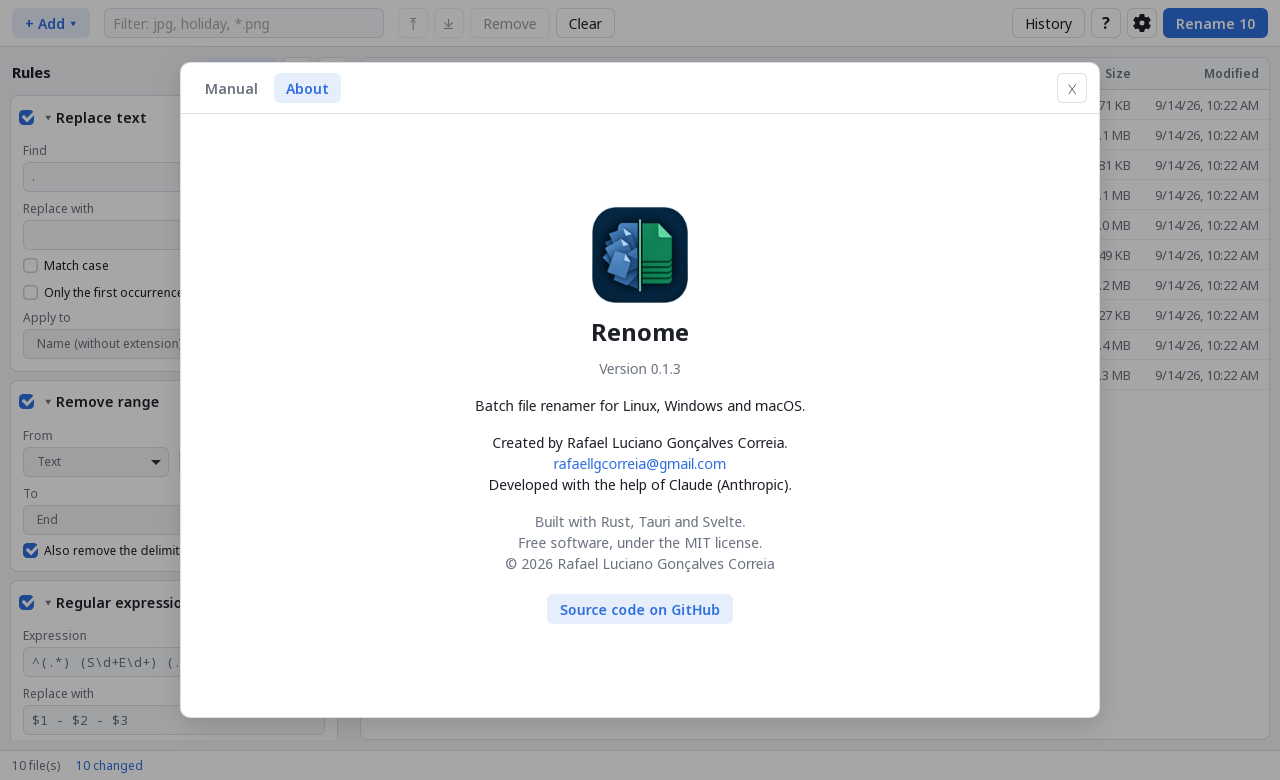
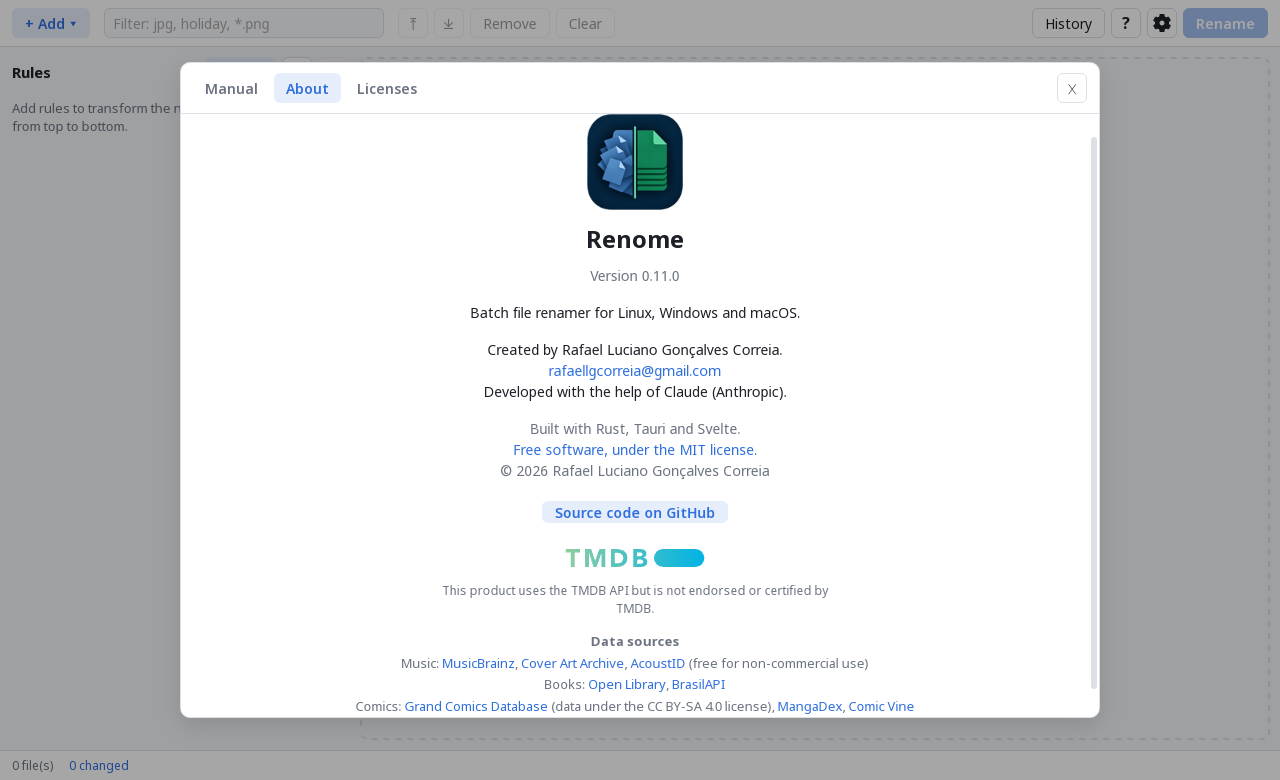
New screenshots; the Folder column shows where a file goes
- README screenshots redone with made-up names: text rules, movie review
  (posters), music into artist/album folders, comics (dark theme),
  photos, manual and About.
- The Folder column shows, in blue, the folder a file moves into; it is
  a bit wider.
- The UI takes TMDB images from RENOME_TMDB_IMAGES too (tests).
- Manual: the destination column; case-insensitive disks on Linux.

diff --git a/src/lib/help/es.ts b/src/lib/help/es.ts
@@ -508,6 +508,7 @@ ${ex("Nombre_de_la_Serie_012_(2019)_(Digital)_(grupo).cbz", "Nombre de la Serie 
   <li>en <b>Nombre actual</b>, lo que se va aparece <span class="del">en rojo, tachado</span>;</li>
   <li>en <b>Nuevo nombre</b>, lo que entra aparece <span class="ins">en azul</span>;</li>
   <li>lo que solo cambió de lugar (el autor que pasó delante del título, por ejemplo) aparece <span class="mov">subrayado con puntos</span>, en los dos lados.</li>
+  <li>un archivo que cambia de carpeta recibe un icono de carpeta en el nombre nuevo, y la columna <b>Carpeta</b> muestra, en azul, adónde va (<code>→ Artista/Álbum (2019)</code>).</li>
 </ul>
 <p>En la primera columna, ● indica que el archivo se renombrará, un <span class="bad">!</span> rojo es un conflicto y un <span class="warn">!</span> amarillo es un aviso. Pase el ratón para ver el motivo.</p>
 <h4>Editar a mano</h4>
@@ -521,7 +522,7 @@ ${ex("Nombre_de_la_Serie_012_(2019)_(Digital)_(grupo).cbz", "Nombre de la Serie 
   <li>ya existe un archivo con ese nombre fuera de la lista (nada se sobrescribe);</li>
   <li>en Windows: los caracteres <code>\\ : * ? " &lt; &gt; |</code>, o un punto o espacio al final del nombre.</li>
 </ul>
-<p>En otros sistemas, esos caracteres de Windows solo generan un aviso amarillo, que se puede desactivar en Opciones. En Windows y macOS, los nombres que solo difieren en mayúsculas cuentan como iguales.</p>
+<p>En otros sistemas, esos caracteres de Windows solo generan un aviso amarillo, que se puede desactivar en Opciones. En Windows, macOS y los discos que no distinguen mayúsculas (exFAT, FAT, NTFS, como los pendrives), los nombres que solo difieren en mayúsculas cuentan como iguales.</p>
 <p><b>Exportar lista</b>, en el pie, guarda la lista tal como se ve (carpeta, nombre actual, nombre nuevo, carpeta a la que va, estado y problema) en un archivo CSV, que se abre en cualquier hoja de cálculo. Sirve para revisar con calma un lote grande antes de renombrar.</p>
 `,
   },

diff --git a/src/lib/help/pt.ts b/src/lib/help/pt.ts
@@ -508,6 +508,7 @@ ${ex("Nome_da_Serie_012_(2019)_(Digital)_(grupo).cbz", "Nome da Série #012 (201
   <li>no <b>Nome atual</b>, o que vai sair aparece <span class="del">em vermelho, riscado</span>;</li>
   <li>no <b>Novo nome</b>, o que entra aparece <span class="ins">em azul</span>;</li>
   <li>o que só mudou de lugar (o autor que passou para a frente do título, por exemplo) aparece <span class="mov">sublinhado com pontinhos</span>, nos dois lados.</li>
+  <li>um arquivo que vai mudar de pasta ganha um ícone de pasta no novo nome, e a coluna <b>Pasta</b> mostra, em azul, para onde ele vai (<code>→ Artista/Álbum (2019)</code>).</li>
 </ul>
 <p>Na primeira coluna, ● indica que o arquivo será renomeado, <span class="bad">!</span> vermelho indica um conflito e <span class="warn">!</span> amarelo indica um aviso. Passe o mouse para ver o motivo.</p>
 <h4>Editar à mão</h4>
@@ -521,7 +522,7 @@ ${ex("Nome_da_Serie_012_(2019)_(Digital)_(grupo).cbz", "Nome da Série #012 (201
   <li>já existe um arquivo com esse nome fora da lista (nada é sobrescrito);</li>
   <li>no Windows: os caracteres <code>\\ : * ? " &lt; &gt; |</code>, ou ponto ou espaço no fim do nome.</li>
 </ul>
-<p>Em outros sistemas, esses caracteres do Windows só geram um aviso amarelo, desligável nas Opções. No Windows e no macOS, nomes que só diferem em maiúsculas contam como iguais.</p>
+<p>Em outros sistemas, esses caracteres do Windows só geram um aviso amarelo, desligável nas Opções. No Windows, no macOS e em discos que não diferenciam maiúsculas (exFAT, FAT, NTFS, como pendrives), nomes que só diferem em maiúsculas contam como iguais.</p>
 <p><b>Exportar lista</b>, no rodapé, salva a lista como está na tela (pasta, nome atual, novo nome, pasta para onde vai, situação e problema) num arquivo CSV, que abre em qualquer planilha. Serve para conferir com calma um lote grande antes de renomear.</p>
 `,
   },

diff --git a/src/lib/help/en.ts b/src/lib/help/en.ts
@@ -508,6 +508,7 @@ ${ex("Series_Name_012_(2019)_(Digital)_(group).cbz", "Series Name #012 (2019).cb
   <li>in <b>Current name</b>, what goes away is shown <span class="del">in red, struck through</span>;</li>
   <li>in <b>New name</b>, what comes in is shown <span class="ins">in blue</span>;</li>
   <li>what only moved (the author now before the title, for instance) is shown <span class="mov">with a dotted underline</span>, on both sides.</li>
+  <li>a file that moves to another folder gets a folder icon in its new name, and the <b>Folder</b> column shows, in blue, where it goes (<code>→ Artist/Album (2019)</code>).</li>
 </ul>
 <p>In the first column, ● means the file will be renamed, a red <span class="bad">!</span> is a conflict and a yellow <span class="warn">!</span> is a warning. Hover to see why.</p>
 <h4>Editing by hand</h4>
@@ -521,7 +522,7 @@ ${ex("Series_Name_012_(2019)_(Digital)_(group).cbz", "Series Name #012 (2019).cb
   <li>a file with that name already exists outside the list (nothing is overwritten);</li>
   <li>on Windows: the characters <code>\\ : * ? " &lt; &gt; |</code>, or a dot or space at the end of the name.</li>
 </ul>
-<p>On other systems, those Windows characters only cause a yellow warning, which can be turned off in Options. On Windows and macOS, names that differ only in case count as the same.</p>
+<p>On other systems, those Windows characters only cause a yellow warning, which can be turned off in Options. On Windows, macOS and disks that ignore case (exFAT, FAT, NTFS, as on USB sticks), names that differ only in case count as the same.</p>
 <p><b>Export list</b>, in the footer, saves the list as shown (folder, current name, new name, folder it moves into, status and problem) to a CSV file, which opens in any spreadsheet. It helps check a large batch calmly before renaming.</p>
 `,
   },

diff --git a/src/lib/FileTable.svelte b/src/lib/FileTable.svelte
@@ -255,7 +255,12 @@
               {/if}
             {/if}
           </span>
-          <span class="c-dir" title={item.dir}>{dir(item.dir)}</span>
+          <!-- Moving: where to, without hovering over the folder icon. -->
+          {#if item.folder}
+            <span class="c-dir into-dir" title={t("intoFolder", { folder: item.folder })}>{`→ ${item.folder}`}</span>
+          {:else}
+            <span class="c-dir" title={item.dir}>{dir(item.dir)}</span>
+          {/if}
           <span class="c-size">{item.isDir ? "" : size(item.size)}</span>
           <span class="c-date">{date(item.modified)}</span>
         </div>
@@ -279,7 +284,7 @@
   }
   .head, .row {
     display: grid;
-    grid-template-columns: 28px minmax(140px, 1fr) minmax(160px, 1.2fr) minmax(90px, 0.6fr) 76px 120px;
+    grid-template-columns: 28px minmax(140px, 1fr) minmax(160px, 1.2fr) minmax(90px, 0.8fr) 76px 120px;
     align-items: center;
     gap: 8px;
     padding: 0 10px;
@@ -328,6 +333,8 @@
   .row span { overflow: hidden; text-overflow: ellipsis; white-space: nowrap; }
   .c-size, .c-date { text-align: right; color: var(--muted); font-variant-numeric: tabular-nums; }
   .row .c-dir { color: var(--muted); direction: rtl; text-align: left; }
+  /* Where it goes reads from its start (the artist, the show). */
+  .row .c-dir.into-dir { color: var(--accent); direction: ltr; }
   .c-new { display: flex; align-items: center; gap: 4px; }
   .name { overflow: hidden; text-overflow: ellipsis; }
   .row.conflict .name { color: var(--danger); }

diff --git a/src/lib/api.ts b/src/lib/api.ts
@@ -36,6 +36,8 @@ export const api = {
     invoke<{ matches: [string, SongMatch][]; agree: number }>("mb_choose", { id, paths, fromName }),
   /** `names`: the name each file is read by (null: its own). */
   saveText: (path: string, text: string) => invoke<void>("save_text", { path, text }),
+  /** Where TMDB images come from (`…/t/p`, sizes added). */
+  tmdbImages: () => invoke<string>("tmdb_images"),
   comicGuesses: (paths: string[], names: (string | null)[], byFolder: boolean) =>
     invoke<(ComicMatch | null)[]>("comic_guesses", { paths, names, byFolder }),
   comicCheck: (key: string) => invoke<void>("comic_check", { key }),

diff --git a/src/lib/EpisodeReview.svelte b/src/lib/EpisodeReview.svelte
@@ -1,4 +1,5 @@
 <script lang="ts">
+  import { tmdbImage } from "./tmdbImages.svelte";
   import { t } from "./i18n";
   import type { EpKey, Episode, EpisodeState, Show } from "./types";
 
@@ -111,7 +112,7 @@
     if (n >= 1 && n <= Math.min(9, alts.length)) choose(alts[n - 1]);
   }
 
-  const still = (p: string | null) => (p ? `https://image.tmdb.org/t/p/w300${p}` : null);
+  const still = (p: string | null) => tmdbImage("w300", p);
   const date = (d: string | null) => (d ? new Date(`${d}T12:00`).toLocaleDateString() : "");
 </script>
 

diff --git a/src/lib/ShowPicker.svelte b/src/lib/ShowPicker.svelte
@@ -1,4 +1,5 @@
 <script lang="ts">
+  import { tmdbImage } from "./tmdbImages.svelte";
   import { api } from "./api";
   import { t, tError } from "./i18n";
   import { settings, tmdbLang } from "./settings.svelte";
@@ -43,7 +44,7 @@
     if (n >= 1 && n <= Math.min(9, candidates.length)) onpick(candidates[n - 1]);
   }
 
-  const poster = (p: string | null) => (p ? `https://image.tmdb.org/t/p/w185${p}` : null);
+  const poster = (p: string | null) => tmdbImage("w185", p);
 </script>
 
 <svelte:window {onkeydown} />

diff --git a/src/lib/MovieReview.svelte b/src/lib/MovieReview.svelte
@@ -1,4 +1,5 @@
 <script lang="ts">
+  import { tmdbImage } from "./tmdbImages.svelte";
   import { api } from "./api";
   import { t, tError } from "./i18n";
   import { settings, tmdbLang } from "./settings.svelte";
@@ -79,7 +80,7 @@
     if (n >= 1 && n <= candidates.length) choose(candidates[n - 1]);
   }
 
-  const poster = (p: string | null) => (p ? `https://image.tmdb.org/t/p/w185${p}` : null);
+  const poster = (p: string | null) => tmdbImage("w185", p);
 </script>
 
 <svelte:window {onkeydown} />

diff --git a/src/lib/tmdbImages.svelte.ts b/src/lib/tmdbImages.svelte.ts
@@ -1,0 +1,10 @@
+import { api } from "./api";
+
+/** Where TMDB images are shown from; tests may point it elsewhere. */
+let base = $state("https://image.tmdb.org/t/p");
+api.tmdbImages().then((b) => (base = b)).catch(() => {});
+
+/** A TMDB image at a size (`w185`, `w300`), or null without a path. */
+export function tmdbImage(size: string, path: string | null): string | null {
+  return path ? `${base}/${size}${path}` : null;
+}

diff --git a/src-tauri/src/lib.rs b/src-tauri/src/lib.rs
@@ -303,6 +303,16 @@ async fn apply(
     .await
 }
 
+/// Where TMDB images are shown from, without the size (`…/t/p`): tests
+/// point it elsewhere with `RENOME_TMDB_IMAGES`.
+#[tauri::command]
+fn tmdb_images() -> String {
+    std::env::var("RENOME_TMDB_IMAGES")
+        .ok()
+        .and_then(|b| b.strip_suffix("/original").map(str::to_string))
+        .unwrap_or_else(|| "https://image.tmdb.org/t/p".into())
+}
+
 #[tauri::command]
 async fn tmdb_check(key: String) -> Result<(), String> {
     tmdb::Client::new(&key, "en-US").check().await
@@ -1064,6 +1074,7 @@ pub fn run() {
             gcd_sign_in,
             gcd_sign_out,
             save_text,
+            tmdb_images,
             recover,
             write_book_sidecars,
             apply,

diff --git a/README.md b/README.md
@@ -16,7 +16,7 @@
   <a href="#screenshots">Screenshots</a>
 </p>
 
-![Renome cleaning up episode names: dots become spaces, the quality tag is removed and the parts are rearranged](docs/screenshots/main.png)
+![Renome cleaning up episode names: dots become spaces, the release tags are removed and the parts are rearranged, with what changes highlighted](docs/screenshots/main.png)
 
 ## How it works
 
@@ -102,10 +102,14 @@ A built-in manual (F1) explains every rule with examples.
 
 | | |
 |---|---|
-| ![Numbering photos per folder](docs/screenshots/photos.png) | ![Dark theme](docs/screenshots/main-dark.png) |
-| Photos from two folders, numbered per folder with the folder name | Dark theme |
-| ![Built-in manual](docs/screenshots/help.png) | ![About](docs/screenshots/about.png) |
-| Built-in manual, in English, Portuguese and Spanish | About |
+| ![Choosing between two movies with the same title, with posters](docs/screenshots/movies.png) | ![Songs named and sorted into artist and album folders from their tags](docs/screenshots/music.png) |
+| Movies: when two have the same title, you choose | Music: named and sorted into `Artist/Album (Year)` from the tags |
+| ![Messy comic file names turned into series and number, in series folders, dark theme](docs/screenshots/comics.png) | ![Photos from two folders, numbered per folder with the folder name](docs/screenshots/photos.png) |
+| Comics: series, number and series folders, offline (dark theme) | Photos numbered per folder, with the folder name |
+| ![Built-in manual](docs/screenshots/help.png) | ![About, with the data sources](docs/screenshots/about.png) |
+| Built-in manual, in English, Portuguese and Spanish | About, with the data sources |
+
+All names in the screenshots are made up.
 
 The functional specification is in [SPEC.md](SPEC.md).
 
